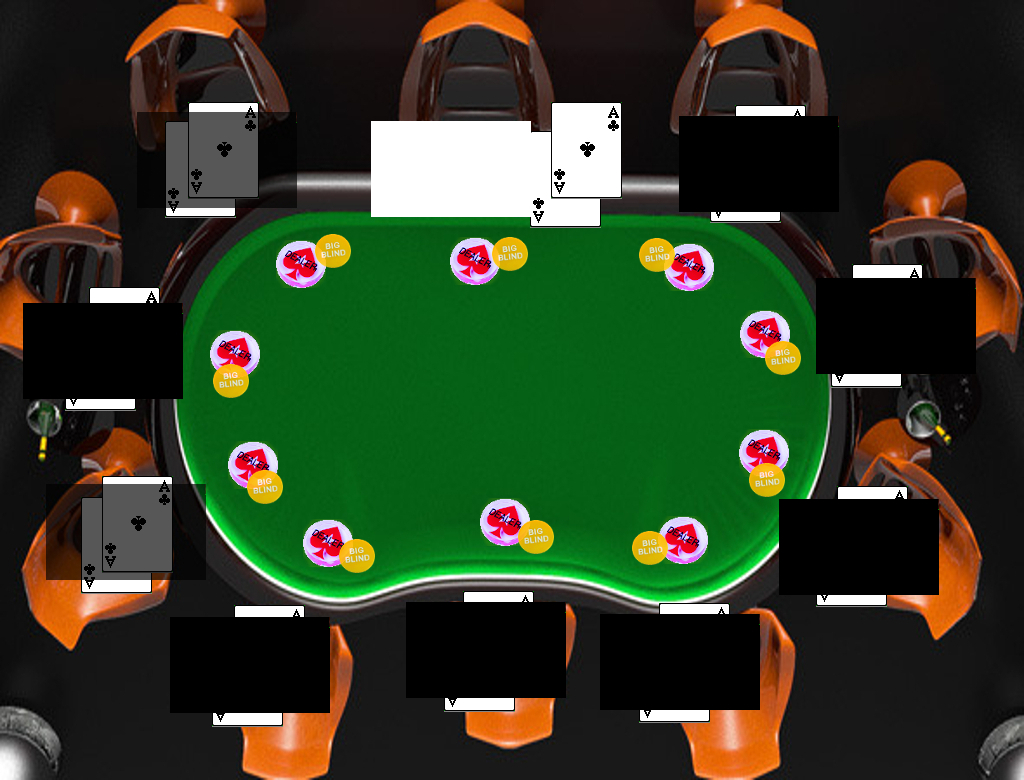
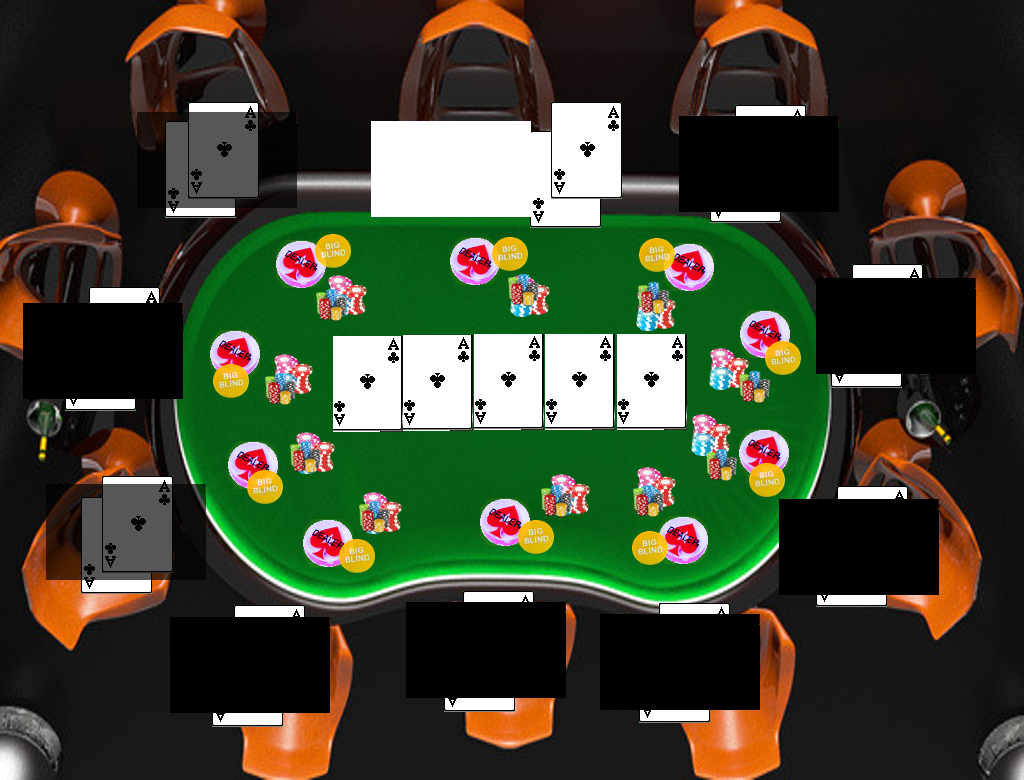
Bet amounts are displaying.

Changed region(s): [[0.25, 0.3385, 0.75, 0.6154], [0.5312, 0.5846, 0.6562, 0.6769], [0.3438, 0.6154, 0.4062, 0.7077]]

diff --git a/core/src/com/tp/holdem/GameRenderer.java b/core/src/com/tp/holdem/GameRenderer.java
@@ -29,7 +29,7 @@ public class GameRenderer {
     private List<Card> cardsOnTable;
     private Texture cards;
     private int yourNumber=0;
-    private TextureRegion reverse, bigBlind, smallBlind, dealer, box;
+    private TextureRegion reverse, bigBlind, smallBlind, dealer, box, smallStack, semiStack, bigStack;
     private int[] positionX = {529, 163, 64, 79, 210, 442, 637, 816, 828, 708};
     private int[] positionY = {133, 121, 314, 497, 632, 617, 628, 512, 293, 127};
     private int[] dealerPositionX = {448, 276, 210, 228, 303, 477, 660, 736, 738, 666};
@@ -38,11 +38,16 @@ public class GameRenderer {
     private int[] blindPositionY = {235, 234, 369, 469, 540, 520, 532, 466, 342, 237};
     private int[] boxPositionX = {364, 136, 21, 45, 168, 405, 597, 777, 813, 678};
     private int[] boxPositionY = {120, 112, 301, 484, 616, 603, 612, 498, 227, 117};
+    private int[] chipsPositionX = {507, 313, 274, 286, 358, 538, 631, 705, 738, 636 };
+    private int[] chipsPositionY = {273, 288, 374, 441, 501, 484, 484, 451, 370, 280 };
     public GameRenderer(GameWorld world){
     	bg = new TextureRegion(new Texture("data/pokerTable.jpg"), 0, 0, 1024, 780);
     	dealer = new TextureRegion(new Texture("data/dealer.png"), 0, 0, 50, 48);
     	smallBlind = new TextureRegion(new Texture("data/smallBlind.png"), 0, 0, 35, 32);
     	bigBlind = new TextureRegion(new Texture("data/bigBlind.png"), 0, 0, 36, 34);
+    	smallStack = new TextureRegion(new Texture("data/smallStack.png"), 0, 0, 28, 28);
+    	semiStack = new TextureRegion(new Texture("data/semiStack.png"), 0, 0, 28, 30);
+    	bigStack = new TextureRegion(new Texture("data/bigStack.png"), 0, 0, 31, 33);
     	myWorld = world;
     	cam = new OrthographicCamera();
         cam.setToOrtho(false, 1024, 780);
@@ -97,6 +102,18 @@ public class GameRenderer {
         		batcher.draw(box, boxPositionX[i], boxPositionY[i]);
         		font.draw(batcher, players.get((i+yourNumber)%players.size()).getName(), boxPositionX[i]+18, boxPositionY[i]+75);
         		font.draw(batcher, "Chips: "+players.get((i+yourNumber)%players.size()).getChipsAmount(), boxPositionX[i]+18, boxPositionY[i]+30);
+	        	if(players.get((i+yourNumber)%players.size()).getBetAmount()>0)
+	        	{
+	        		if(players.get((i+yourNumber)%players.size()).getBetAmount()<300){
+	        			batcher.draw(smallStack, chipsPositionX[i], chipsPositionY[i]);
+	        		}
+		        	else if(players.get((i+yourNumber)%players.size()).getBetAmount()<1500){
+		        		batcher.draw(semiStack, chipsPositionX[i], chipsPositionY[i]);
+		        	}
+		        	else{
+		        		batcher.draw(bigStack, chipsPositionX[i], chipsPositionY[i]);
+		        	}
+	        	}
 	        }
         }
         if(cardsOnTable!=null)
